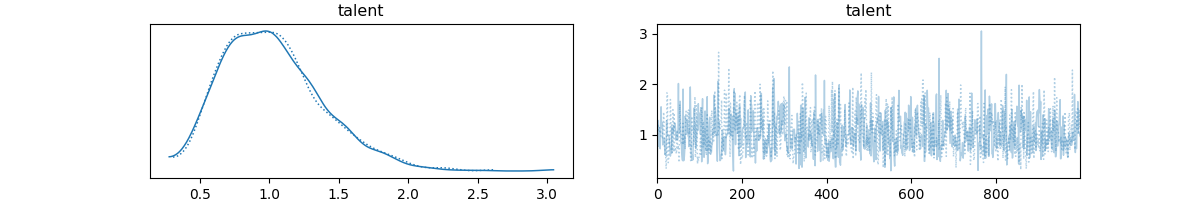
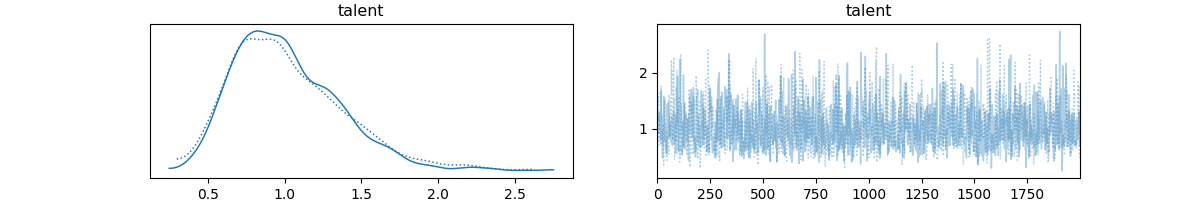
Passage de la distribution à la decision

diff --git a/models/football_model.py b/models/football_model.py
@@ -32,7 +32,7 @@ class FootballAnalystProbabilistic:
             raise ValueError("Model not built yet.")
         
         with self.model:
-            self.trace = pm.sample(1000, tune=1000)
+            self.trace = pm.sample(2000, tune=1000, target_accept=0.9)
         
         return self.trace
 
@@ -41,67 +41,61 @@ class FootballAnalystProbabilistic:
             raise ValueError("Model not trained yet.")
         
         return az.summary(self.trace)
-        if self.trace is None : 
-            print("Erreur: Le modèle doit etre entrainé avant de générer un resumé")
-            return None
-        # az.summary calcule la moyenne, l'ecart-type et les intervalles de confiance
-        stats = az.summary(self.trace, round_to = 2)
-        return stats
     
-if __name__ == "__main__" :
-    import arviz as az
-    import matplotlib.pyplot as plt
+    def evaluate_player(self):
+        if self.trace is None :
+            print("Erreur : Entrainez le modèle d'abord !")
+            return None
+        samples = self.trace.posterior["talent"].values
+        prob = (samples > 1).mean()
+        print(f"Probabilité que {self.player_name} soit performant : {prob: .2%}")
+        return prob
 
-    # Données de test
-    xg = np.array([0.8 , 1.2 , 0.5, 1.5])
+    def plot_trace(self, filename="trace.png"):
+        import matplotlib.pyplot as plt
+        az.plot_trace(self.trace)
+        plt.savefig(filename)
+    
+    def plot_result(self, filename="models/resultat.png"):
+        import matplotlib.pyplot as plt
+        import arviz as az
+
+        az.plot_trace(self.trace)
+        plt.savefig(filename)
+        print(f"Graphique sauvegardé sous : {filename}")
+
+    def decision_recruitment(self):
+        samples = self.trace.posterior["talent"].values
+    
+        prob_good = (samples > 1).mean()
+    
+        # Hypothèses métier
+        gain_good = 10
+        loss_bad = -5
+    
+        expected_value = prob_good * gain_good + (1 - prob_good) * loss_bad
+    
+        print(f"Probabilité joueur performant : {prob_good:.2%}")
+        print(f"Valeur attendue du recrutement : {expected_value:.2f}")
+    
+        if expected_value > 0:
+          print("Décision : RECRUTER")
+        else:
+          print("Décision : NE PAS RECRUTER")
+
+if __name__ == "__main__":
+    
+    xg = np.array([0.8, 1.2, 0.5, 1.5])
     goals = np.array([1, 2, 0, 1])
 
     analyst = FootballAnalystProbabilistic("Gavi")
     
     analyst.build_model(xg, goals)
     analyst.train()
+    analyst.evaluate_player()
+    analyst.plot_result()
+    analyst.decision_recruitment()
     
     print(analyst.summary())
-
-    # 3. Sauvegarde du graphique
-    az.plot_trace(analyst.trace)
-    import matplotlib.pyplot as plt
-    plt.savefig("models/resultat_performance.png")
-
-
-
-    # initialisation et execution
-    model= Footballanalystprobabilistic("Gavi")
-    analyst.build_model(xg, goals)
-    resultats = analyst.train()
-    # On recupère la trace ici
-    
-    # Affichage du resumé statistique 
-    if resultats is not None : 
-        print("\n Mise à jour du graphique...")
-        az.plot_trace(resultats)
-        plt.savefig("models/resultats_performance.png")
-        print("Terminé! vérifié le fichier 'resultats_performance.png' et ton terminal. ")
-    else:
-        print("L'entrainement a échoué, verifie tes fonctions build_model et train. ")
-    # 1. Visualisation 
-    print("Génération du graphique...")
-    az.plot_trace(model.trace)
-    plt.savefig("models/resultats_performance.png")
-
-    # 2. Statistiques chiffrées
-    print("\n RESUME STATISTIQUE / ")
-    print(model.summary())
-
-
-# 1. On recupère les resultats (la trace)
-trace = model.train()
-
-# 2. On crée le graphique (Trace Plot)
-az.plot_trace(trace)
-
-# 3. CRUCIAL : On enregistre au lieu d'afficher
-plt.savefig("models/resultat_performance.png")
-print("Graphique enregistré dans models/resultat_performance.png")
 
     